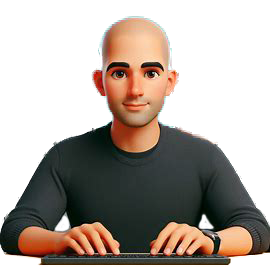
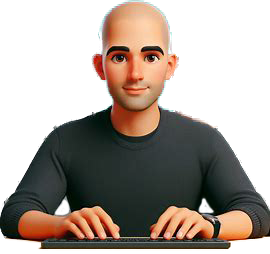
persona

Changed region(s): [[0.0, 0.0, 1.0, 0.9921], [0.1778, 0.6339, 0.2667, 0.7165]]

diff --git a/README.md b/README.md
@@ -8,7 +8,7 @@
   <img align="right" src="personagem.png" alt="Imagem de personagem" height="150">-->
  
 <div style="display: inline-block">
-  <img align="right" src="personagem.png" alt="Imagem de personagem" height="200" style="margin-top: 0; margin-right: 0;">
+  <img align="right" src="personagem.png" alt="Imagem de personagem" height="180" style="margin-top: 0; margin-right: 0;">
   <p align="left">De Piloto da Aviação de Caça a Desenvolvedor de Software
   </p></br></br></br></br></br>
 </div>
@@ -40,7 +40,7 @@
 <div>  
 
   <img height="150" src="https://github-readme-stats.vercel.app/api?username=cristianocads&show_icons=true&count_private=true&include_all_commits=true&locale=pt-br&hide_border=false&title_color=00bfbf&icon_color=00bfbf&text_color=c9d1d9&bg_color=0d1117" alt="Cristiano Aguiar github stats" style="border:2px solid #00bfbf; border-radius:8px;" /> 
-  <img height="150" src="https://github-readme-stats.vercel.app/api/top-langs/?username=cristianocads&layout=compact&title_color=00bfbf&text_color=00bfbf&bg_color=0d1117&locale=pt-br" style="border:2px solid #00bfbf; border-radius:8px;" />
+  <img height="150" src="https://github-readme-stats.vercel.app/api/top-langs/?username=cristianocads&layout=compact&title_color=00bfbf&text_color=00bfbf&bg_color=0d1117&border=1px&border_color=00bfbf&border_radius=8px&locale=pt-br"/>
 </div> 
 
 <!-- <div align="center">
